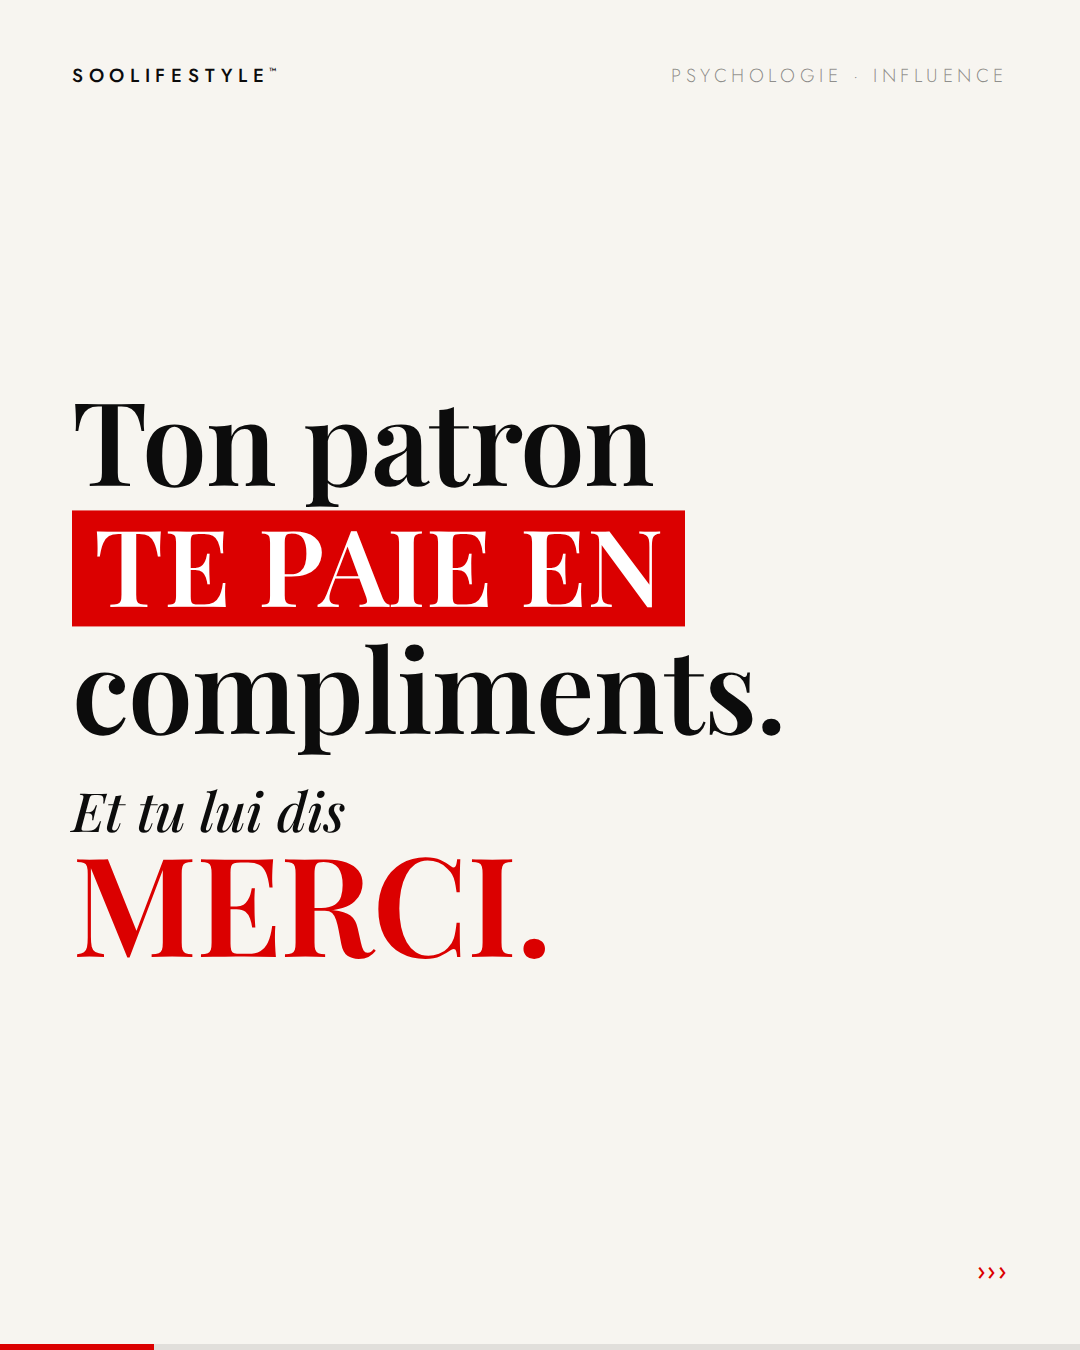
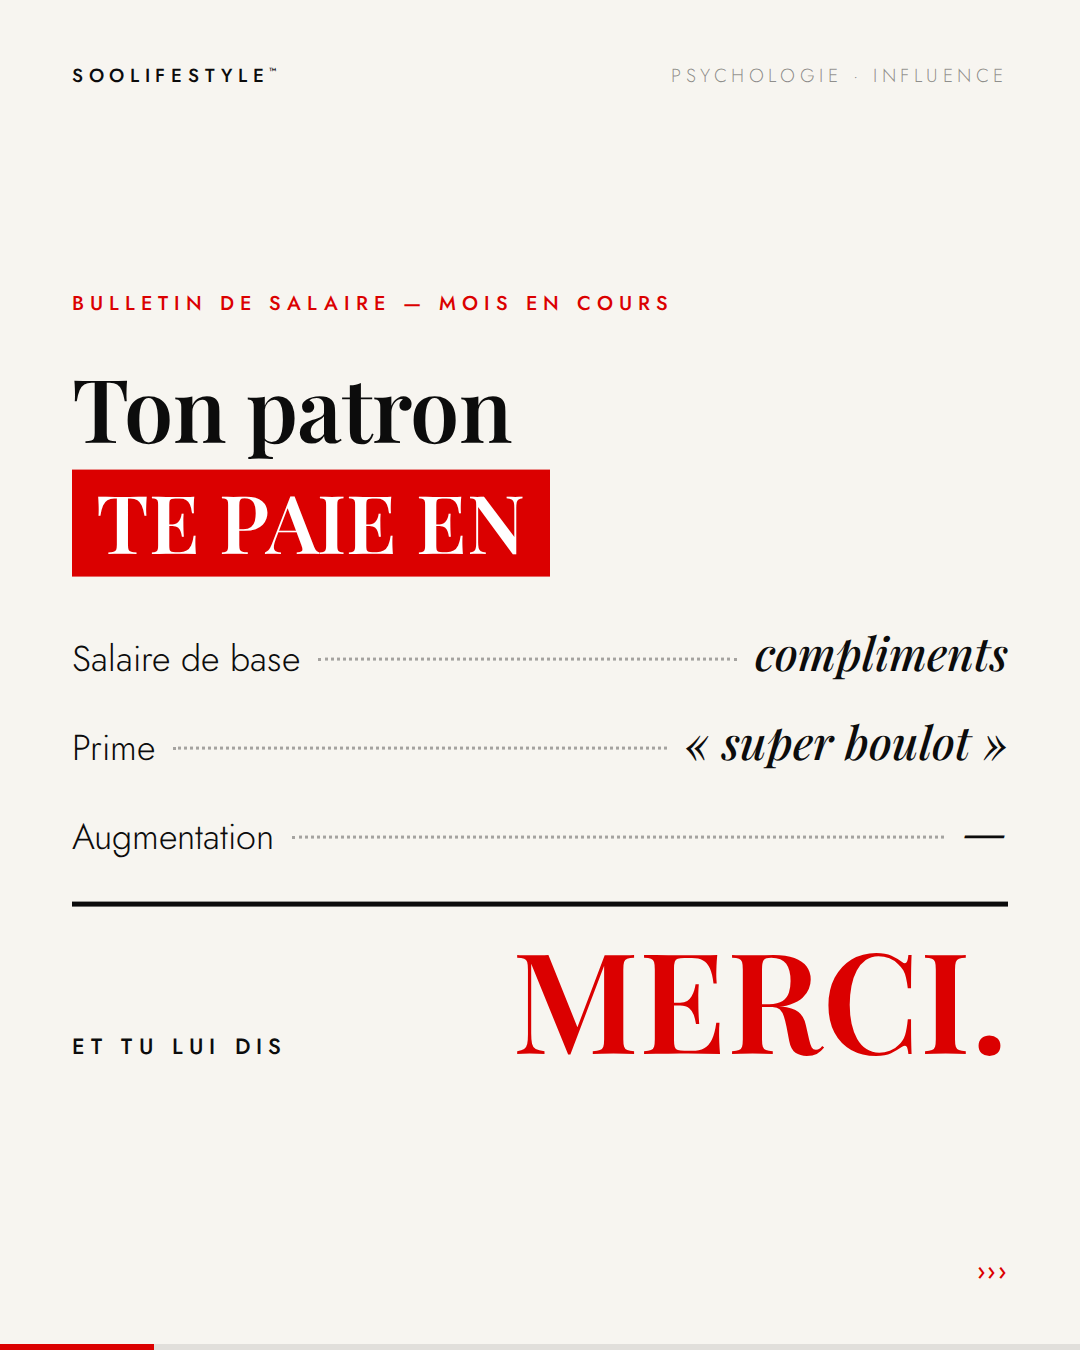
Salaire émotionnel : couverture bulletin + carrousel complet
- Nouveau gabarit de couverture « bulletin » (fiche de paie) dans
  layouts-couverture.js, styles dans da.js, documenté dans SYSTEME.md
- Chiffres alignés (lining-nums) : le 0 de Playfair ne passe plus pour un o
- CTA : « Abonne-toi @soolifestyle / Demain, une règle de plus. »
- Slides 01 à 07 régénérées

Claude-Session: https://claude.ai/code/session_01NxfN7rJ7DAKtxmihPtfgqw

diff --git a/instagram/carrousel-le-miroir/da.js b/instagram/carrousel-le-miroir/da.js
@@ -28,7 +28,8 @@ const CSS = `${FONTS}
         align-items:center; gap:44px; padding:44px; }
 
   .sl{ position:relative; width:${TOKENS.w}px; height:${TOKENS.h}px; overflow:hidden;
-       background:var(--paper); color:var(--ink); -webkit-font-smoothing:antialiased; }
+       background:var(--paper); color:var(--ink); -webkit-font-smoothing:antialiased;
+       font-variant-numeric:lining-nums; } /* Playfair : sinon le 0 ressemble à un o */
   .sl.dark{ background:var(--black); color:var(--paper); }
 
   /* ── habillage : les quatre coins, identiques partout ── */
@@ -117,9 +118,23 @@ const CSS = `${FONTS}
   /* ── l'horizon : le bloc ne flotte plus, il pose ── */
   .wrap.bas{ top:auto; bottom:196px; transform:none; }
 
+  /* ── le bulletin : la couverture devient un document ── */
+  .kick{ font-family:'Sans',sans-serif; font-weight:500; font-size:20px; letter-spacing:.3em;
+         text-transform:uppercase; color:var(--red); margin-bottom:34px; }
+  .ligne{ display:flex; align-items:baseline; gap:18px; font-family:'Sans',sans-serif;
+          font-weight:300; font-size:36px; margin-top:26px; }
+  .ligne i{ flex:1; border-bottom:3px dotted rgba(12,12,12,.35); transform:translateY(-10px); }
+  .ligne b{ font-family:'Display',Georgia,serif; font-style:italic; font-weight:500; font-size:46px; }
+  .total{ display:flex; align-items:baseline; justify-content:space-between;
+          border-top:5px solid var(--ink); margin-top:40px; padding-top:26px; }
+  .total span{ font-family:'Sans',sans-serif; font-weight:500; font-size:22px;
+               letter-spacing:.28em; text-transform:uppercase; }
+  .total b{ font-family:'Display',Georgia,serif; font-weight:600; font-size:140px;
+            color:var(--red); line-height:.9; text-transform:uppercase; }
+
   /* ── le compte : l'arobase surligné, pas un bouton ── */
   .at{ display:inline-block; background:var(--red); color:#fff;
-       padding:2px 14px 6px; margin:0 4px; }
+       padding:2px 14px 6px; margin:0 2px 0 4px; }
 `;
 
 // Playfair capitales : une lettre avance d'environ 0,60 em.

diff --git a/instagram/carrousel-le-miroir/layouts-couverture.js b/instagram/carrousel-le-miroir/layouts-couverture.js
@@ -62,6 +62,19 @@ module.exports = {
       <div class="why">${p.why}</div>
     </div>`,
 
+  // la couverture n'est plus une affiche, c'est un document : un bulletin,
+  // des lignes à points de conduite, et la chute à la place du total.
+  // `kick` : l'en-tête du document. `rows` : [[libellé, valeur], …].
+  bulletin: (p) => `
+    <div class="wrap">
+      <div class="kick">${p.kick}</div>
+      <div class="title${p.case ? ' case' : ''}" style="font-size:${p.size}px">${DA.chipLines(p.lines, p.hi)}</div>
+      ${p.rows
+        .map(([l, v], i) => `<div class="ligne"${i ? '' : ' style="margin-top:44px"'}><span>${l}</span><i></i><b>${v}</b></div>`)
+        .join('')}
+      <div class="total"><span>${p.ital}</span><b>${p.why}</b></div>
+    </div>`,
+
   // interlignage écrasé, plus aucun filet, rien ne respire
   compression: (p) => `
     <div class="wrap">

diff --git a/instagram/carrousel-le-miroir/SYSTEME.md b/instagram/carrousel-le-miroir/SYSTEME.md
@@ -75,7 +75,7 @@ du contraste de casse.
 
 ### Les gabarits
 
-Six façons de casser la symétrie. C'est ce qui empêche le feed de devenir plat.
+Huit façons de casser la symétrie. C'est ce qui empêche le feed de devenir plat.
 
 | Gabarit | Ce qu'il casse | À utiliser quand |
 |---|---|---|
@@ -86,6 +86,11 @@ Six façons de casser la symétrie. C'est ce qui empêche le feed de devenir pla
 | `desequilibre` | tout tombe en bas, le haut reste vide | la chute est brève et sèche |
 | `bande` | le surligneur traverse toute la largeur | une ligne entière est la punchline |
 | `filet` | le surligneur perd son aplat, il devient un contour | la ligne surlignée est longue, ou le feed a besoin d'air |
+| `bulletin` | la couverture devient un document : en-tête, lignes à points de conduite, la chute à la place du total | le sujet a une forme réelle (fiche de paie, facture, reçu, ordonnance…) |
+
+Le `bulletin` prend deux champs de plus : `kick` (l'en-tête du document) et
+`rows` (`[[libellé, valeur], …]`, trois lignes maximum). Le titre tient sur deux lignes.
+C'est le plus fort, et le plus reconnaissable : une fois par mois, pas plus.
 
 La taille du `debord` se calcule toute seule pour que le mot déborde quoi qu'il
 arrive — plafonnée à 340 px, de quoi faire sortir du cadre un mot de six signes.
@@ -99,7 +104,8 @@ Jamais deux fois le même sur une ligne de trois dans la grille.
 
 Sur un mois de publication, ça donne à peu près :
 `decalage` 25 % · `debord` 20 % · `compression` 20 % ·
-`inclinaison` 15 % · `filet` 10 % · `desequilibre` 5 % · `bande` 5 %.
+`inclinaison` 15 % · `filet` 10 % · `desequilibre` 5 % · `bande` 5 %,
+plus un `bulletin` par mois quand le sujet s'y prête.
 
 Le `bande` est le plus voyant, donc le plus vite lassant. Garde-le pour les posts
 qui comptent.
@@ -230,7 +236,7 @@ Pour tester des couvertures en série sans écrire les carrousels entiers,
 | Fichier | Rôle |
 |---|---|
 | `da.js` | **les invariants.** Palette, typo, habillage, jauge. Un seul endroit. |
-| `layouts-couverture.js` | les six gabarits de tension de la couverture |
+| `layouts-couverture.js` | les huit gabarits de tension de la couverture |
 | `rythmes.js` | les trois rythmes de l'intérieur |
 | `build-carrousel.js` | la slide finale et le rendu |
 | `carrousels/*.json` | le texte d'un carrousel |
